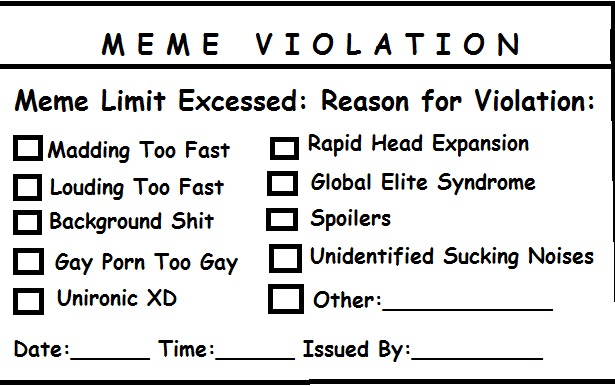
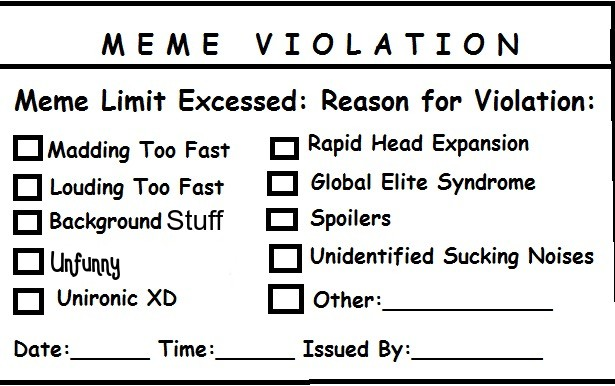
change wording

Changed region(s): [[0.0618, 0.6528, 0.4016, 0.715], [0.2472, 0.5285, 0.3707, 0.6218]]

diff --git a/nb_commands.py b/nb_commands.py
@@ -368,7 +368,7 @@ async def delete_command(context):
                 pass_context=True)
 async def mum_command(context):
     response = [
-        " you're mum gey HA",
+        " you're mum ugly HA",
         " Thine mother art a delectable, fine woman and a scholar, good sir."
     ]
     await context.message.channel.send(context.message.author.mention + random.choice(response))
@@ -417,8 +417,8 @@ async def memeviolation_command(context):
         m = """```
 1: Madding Too Fast
 2: Louding Too Fast
-3: Background Shit
-4: Gay Porn Too Gay
+3: Background Stuff
+4: Unfunny
 5: Unironic XD
 6: Rapid Head Expansion
 7: Global Elite Syndrome
